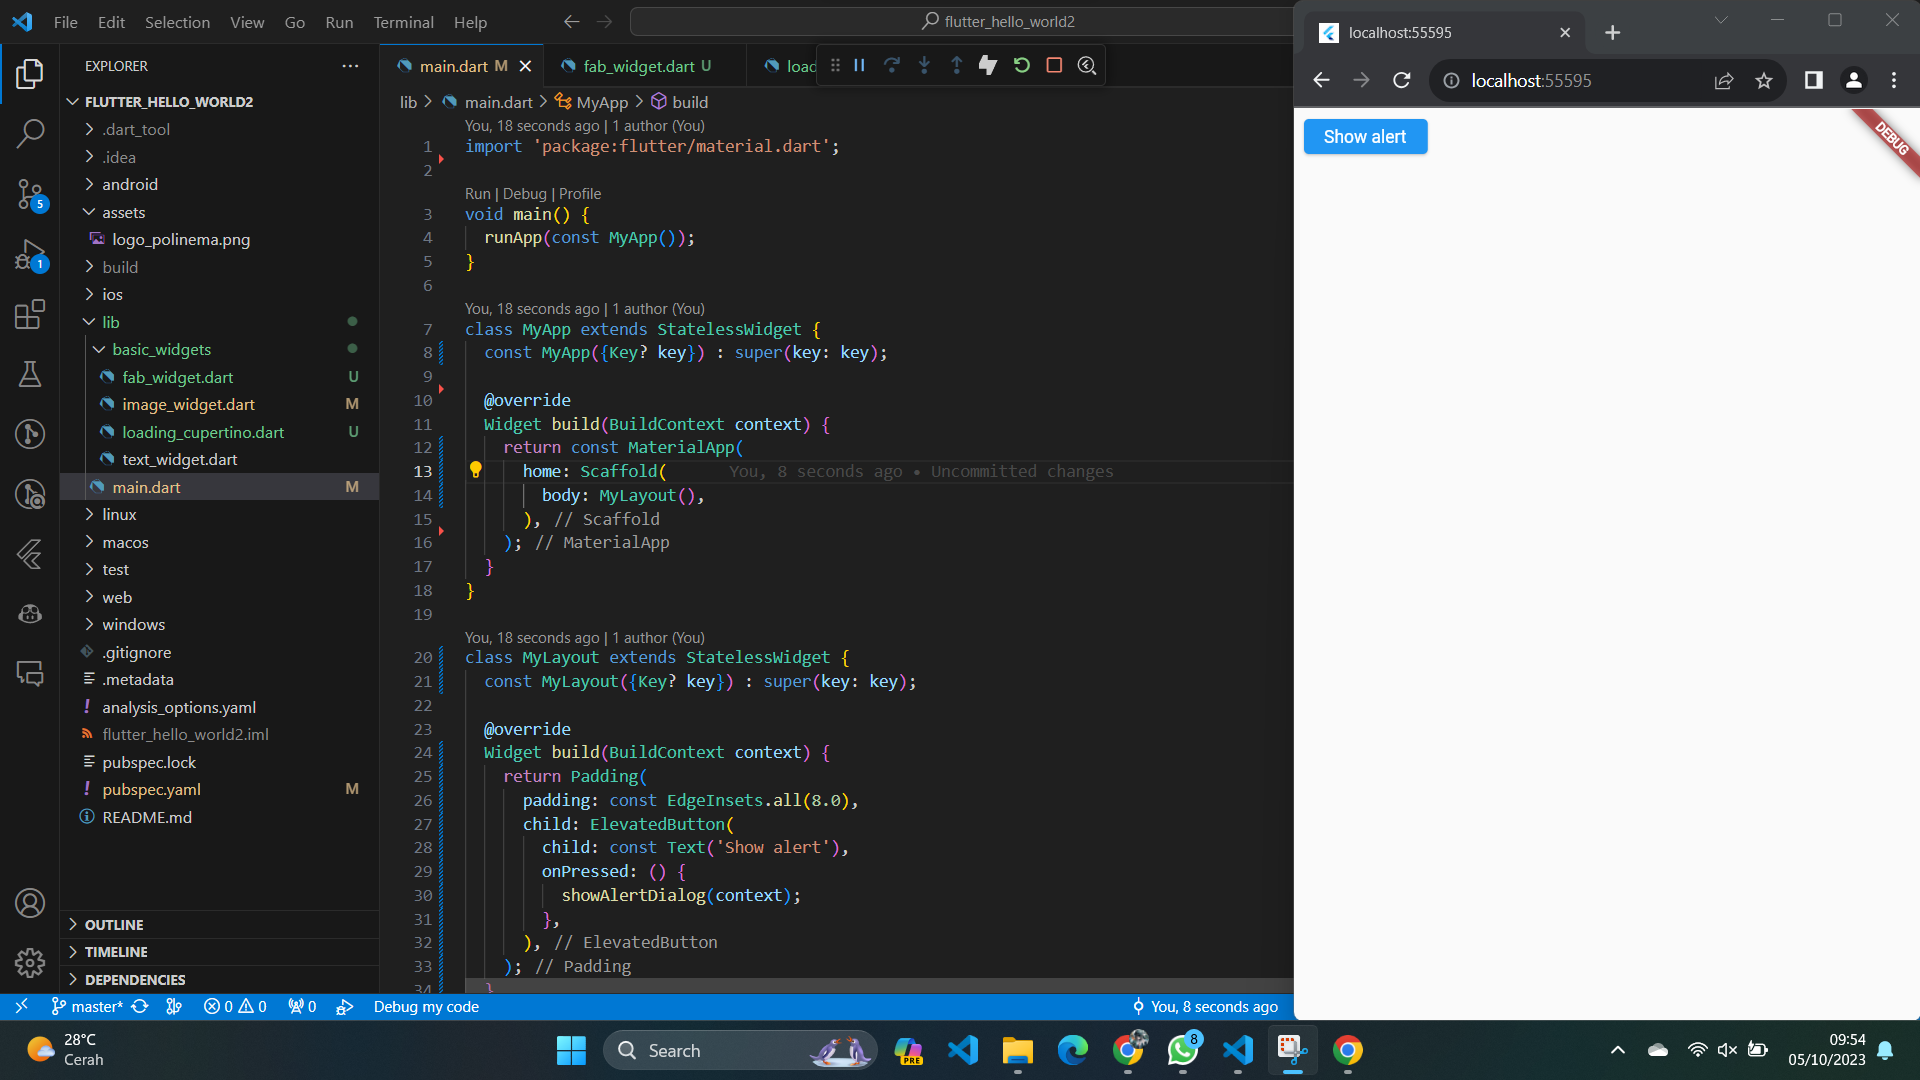
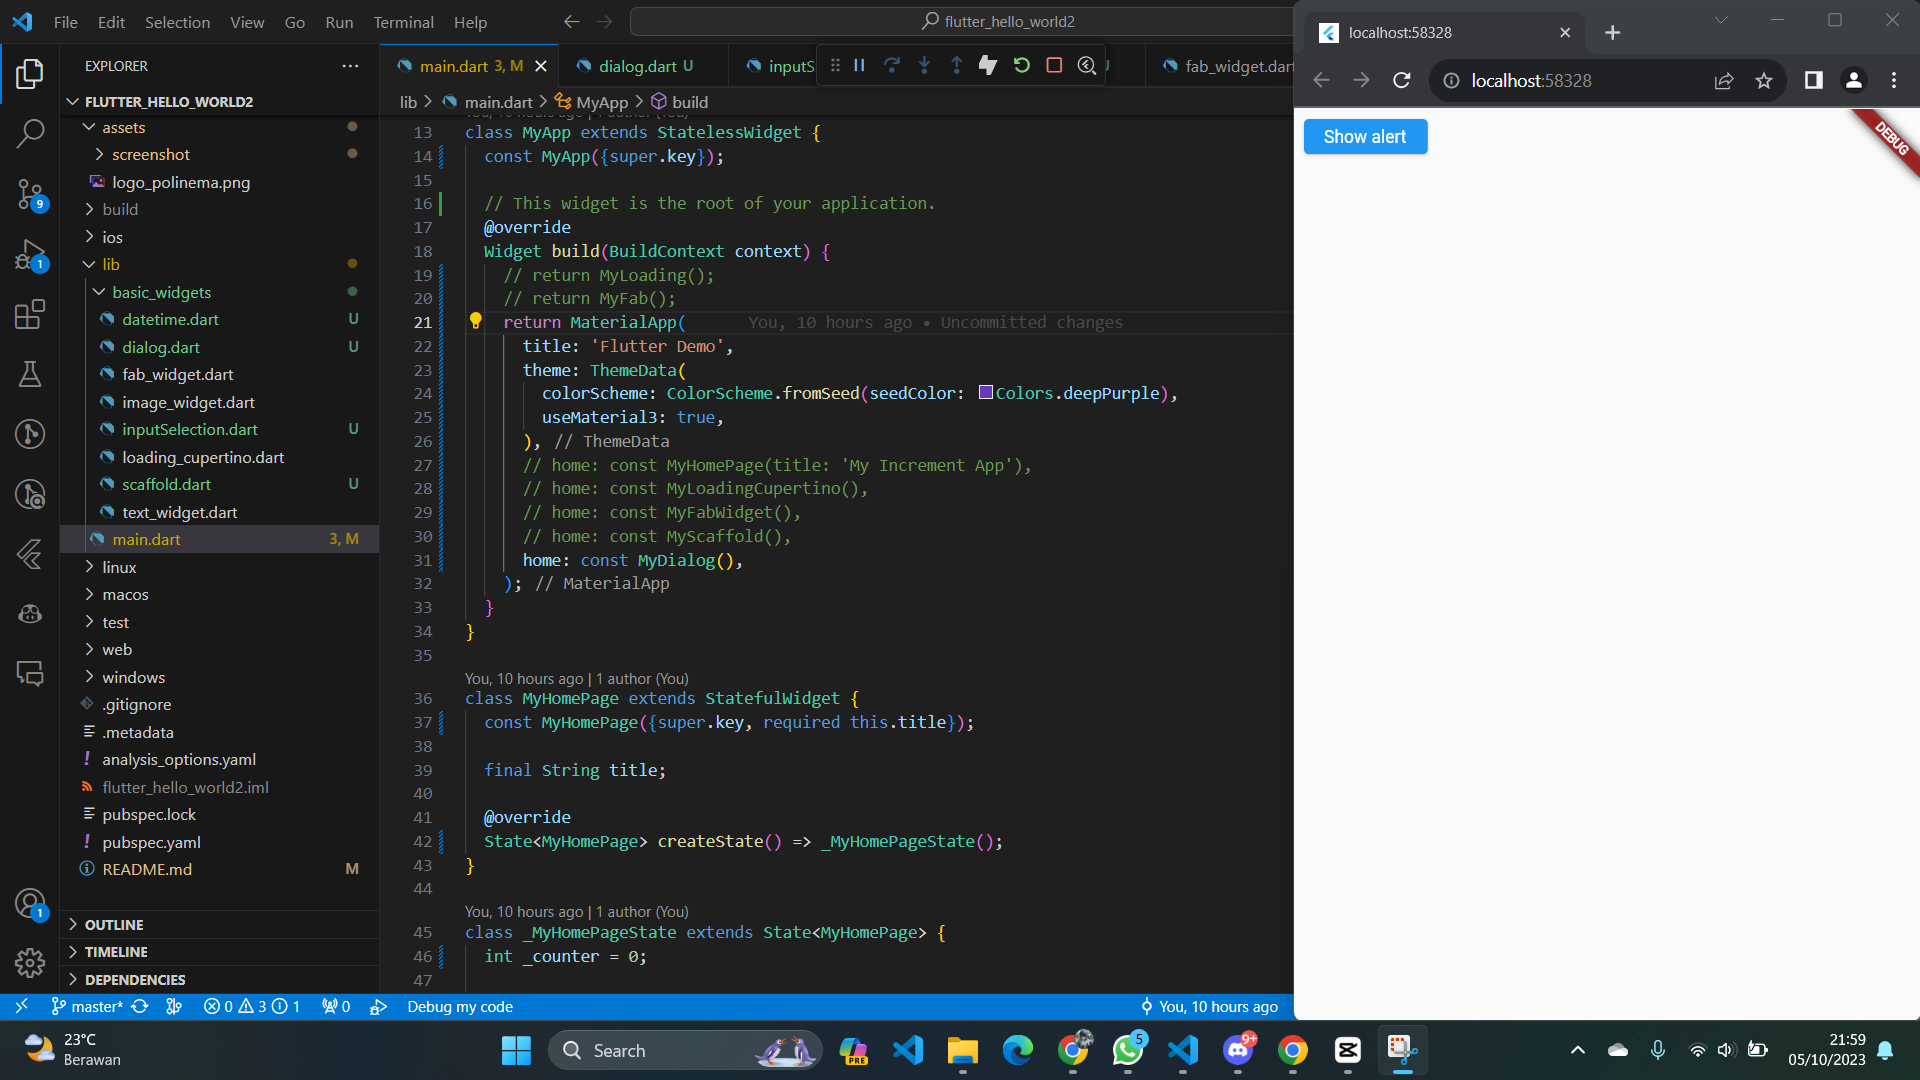
Minggu 5

diff --git a/lib/main.dart b/lib/main.dart
@@ -1,72 +1,84 @@
-import 'dart:async';
 import 'package:flutter/material.dart';
+import 'package:flutter_hello_world2/basic_widgets/datetime.dart';
+import 'package:flutter_hello_world2/basic_widgets/dialog.dart';
+import 'package:flutter_hello_world2/basic_widgets/fab_widget.dart';
+import 'package:flutter_hello_world2/basic_widgets/image_widget.dart';
+import 'package:flutter_hello_world2/basic_widgets/inputSelection.dart';
+import 'package:flutter_hello_world2/basic_widgets/loading_cupertino.dart';
+import 'package:flutter_hello_world2/basic_widgets/scaffold.dart';
+import 'package:flutter_hello_world2/basic_widgets/text_widget.dart';
 
-void main() => runApp(const MyApp());
+void main() {
+  runApp(const MyApp());
+}
 
 class MyApp extends StatelessWidget {
-  const MyApp({Key? key}) : super(key: key);
+  const MyApp({super.key});
 
+  // This widget is the root of your application.
   @override
   Widget build(BuildContext context) {
-    return const MaterialApp(
-      title: 'Contoh Date Picker',
-      home: MyHomePage(title: 'Contoh Date Picker'),
+    // return MyLoading();
+    // return MyFab();
+    return MaterialApp(
+      title: 'Flutter Demo',
+      theme: ThemeData(
+        colorScheme: ColorScheme.fromSeed(seedColor: Colors.deepPurple),
+        useMaterial3: true,
+      ),
+      // home: const MyHomePage(title: 'My Increment App'),
+      // home: const MyLoadingCupertino(),
+      // home: const MyFabWidget(),
+      // home: const MyScaffold(),
+      // home: const MyDialog(),
+      // home: const MyInputSelect(),
+      home: const MyDateTime(),
     );
   }
 }
 
 class MyHomePage extends StatefulWidget {
-  const MyHomePage({Key? key, required this.title}) : super(key: key);
+  const MyHomePage({super.key, required this.title});
 
   final String title;
 
   @override
-  _MyHomePageState createState() => _MyHomePageState();
+  State<MyHomePage> createState() => _MyHomePageState();
 }
 
 class _MyHomePageState extends State<MyHomePage> {
-  // Variable/State untuk mengambil tanggal
-  DateTime selectedDate = DateTime.now();
+  int _counter = 0;
 
-  //  Initial SelectDate FLutter
-  Future<void> _selectDate(BuildContext context) async {
-    // Initial DateTime FIinal Picked
-    final DateTime? picked = await showDatePicker(
-        context: context,
-        initialDate: selectedDate,
-        firstDate: DateTime(2015, 8),
-        lastDate: DateTime(2101));
-    if (picked != null && picked != selectedDate) {
-      setState(() {
-        selectedDate = picked;
-      });
-    }
+  void _incrementCounter() {
+    setState(() {
+      _counter++;
+    });
   }
 
   @override
   Widget build(BuildContext context) {
     return Scaffold(
       appBar: AppBar(
+        backgroundColor: Theme.of(context).colorScheme.inversePrimary,
         title: Text(widget.title),
       ),
       body: Center(
         child: Column(
-          mainAxisSize: MainAxisSize.min,
+          mainAxisAlignment: MainAxisAlignment.center,
           children: <Widget>[
-            Text("${selectedDate.toLocal()}".split(' ')[0]),
-            const SizedBox(
-              height: 20.0,
-            ),
-            ElevatedButton(
-              onPressed: () => {
-                _selectDate(context),
-                // ignore: avoid_print
-                print(selectedDate.day + selectedDate.month + selectedDate.year)
-              },
-              child: const Text('Pilih Tanggal'),
+            const MyTextWidget(),
+            const MyImageWidget(),
+            Text(
+              '$_counter',
+              style: Theme.of(context).textTheme.headlineMedium,
             ),
           ],
         ),
+      ),
+      floatingActionButton: FloatingActionButton(
+        onPressed: _incrementCounter,
+        tooltip: 'Increment',
+        child: const Icon(Icons.add),
       ),
     );
   }

diff --git a/lib/basic_widgets/datetime.dart b/lib/basic_widgets/datetime.dart
@@ -1,0 +1,73 @@
+import 'dart:async';
+import 'package:flutter/material.dart';
+
+void main() => runApp(const MyDateTime());
+
+class MyDateTime extends StatelessWidget {
+  const MyDateTime({Key? key}) : super(key: key);
+
+  @override
+  Widget build(BuildContext context) {
+    return const MaterialApp(
+      title: 'Contoh Date Picker',
+      home: MyHomePage(title: 'Contoh Date Picker'),
+    );
+  }
+}
+
+class MyHomePage extends StatefulWidget {
+  const MyHomePage({Key? key, required this.title}) : super(key: key);
+
+  final String title;
+
+  @override
+  _MyHomePageState createState() => _MyHomePageState();
+}
+
+class _MyHomePageState extends State<MyHomePage> {
+  // Variable/State untuk mengambil tanggal
+  DateTime selectedDate = DateTime.now();
+
+  //  Initial SelectDate FLutter
+  Future<void> _selectDate(BuildContext context) async {
+    // Initial DateTime FIinal Picked
+    final DateTime? picked = await showDatePicker(
+        context: context,
+        initialDate: selectedDate,
+        firstDate: DateTime(2015, 8),
+        lastDate: DateTime(2101));
+    if (picked != null && picked != selectedDate) {
+      setState(() {
+        selectedDate = picked;
+      });
+    }
+  }
+
+  @override
+  Widget build(BuildContext context) {
+    return Scaffold(
+      appBar: AppBar(
+        title: Text(widget.title),
+      ),
+      body: Center(
+        child: Column(
+          mainAxisSize: MainAxisSize.min,
+          children: <Widget>[
+            Text("${selectedDate.toLocal()}".split(' ')[0]),
+            const SizedBox(
+              height: 20.0,
+            ),
+            ElevatedButton(
+              onPressed: () => {
+                _selectDate(context),
+                // ignore: avoid_print
+                print(selectedDate.day + selectedDate.month + selectedDate.year)
+              },
+              child: const Text('Pilih Tanggal'),
+            ),
+          ],
+        ),
+      ),
+    );
+  }
+}

diff --git a/lib/basic_widgets/scaffold.dart b/lib/basic_widgets/scaffold.dart
@@ -1,0 +1,74 @@
+import 'package:flutter/material.dart';
+
+void main() {
+  runApp(const MyScaffold());
+}
+
+class MyScaffold extends StatelessWidget {
+  const MyScaffold({Key? key}) : super(key: key);
+
+  // This widget is the root of your application.
+  @override
+  Widget build(BuildContext context) {
+    return MaterialApp(
+      title: 'Flutter Demo',
+      theme: ThemeData(
+        primarySwatch: Colors.red,
+      ),
+      home: const MyHomePage(title: 'My Increment App'),
+    );
+  }
+}
+
+class MyHomePage extends StatefulWidget {
+  const MyHomePage({Key? key, required this.title}) : super(key: key);
+
+  final String title;
+
+  @override
+  State<MyHomePage> createState() => _MyHomePageState();
+}
+
+class _MyHomePageState extends State<MyHomePage> {
+  int _counter = 0;
+
+  void _incrementCounter() {
+    setState(() {
+      _counter++;
+    });
+  }
+
+  @override
+  Widget build(BuildContext context) {
+    return Scaffold(
+      appBar: AppBar(
+        title: Text(widget.title),
+      ),
+      body: Center(
+        child: Column(
+          mainAxisAlignment: MainAxisAlignment.center,
+          children: <Widget>[
+            const Text(
+              'You have pushed the button this many times:',
+            ),
+            Text(
+              '$_counter',
+              style: Theme.of(context).textTheme.headlineMedium,
+            ),
+          ],
+        ),
+      ),
+      bottomNavigationBar: BottomAppBar(
+        child: Container(
+          height: 50.0,
+        ),
+      ),
+      floatingActionButton: FloatingActionButton(
+        onPressed: _incrementCounter,
+        tooltip: 'Increment Counter',
+        child: const Icon(Icons.add),
+      ), 
+      floatingActionButtonLocation: FloatingActionButtonLocation.centerDocked,
+    );
+  }
+}

diff --git a/lib/basic_widgets/dialog.dart b/lib/basic_widgets/dialog.dart
@@ -1,0 +1,58 @@
+import 'package:flutter/material.dart';
+
+class MyDialog extends StatelessWidget {
+  const MyDialog({Key? key}) : super(key: key);
+
+  @override
+  Widget build(BuildContext context) {
+    return const MaterialApp(
+      home: Scaffold(
+        body: MyLayout(),
+      ),
+    );
+  }
+}
+
+class MyLayout extends StatelessWidget {
+  const MyLayout({Key? key}) : super(key: key);
+
+  @override
+  Widget build(BuildContext context) {
+    return Padding(
+      padding: const EdgeInsets.all(8.0),
+      child: ElevatedButton(
+        child: const Text('Show alert'),
+        onPressed: () {
+          showAlertDialog(context);
+        },
+      ),
+    );
+  }
+}
+
+showAlertDialog(BuildContext context) {
+  // set up the button
+  Widget okButton = TextButton(
+    child: const Text("OK"),
+    onPressed: () {
+      Navigator.pop(context);
+    },
+  );
+
+  // set up the AlertDialog
+  AlertDialog alert = AlertDialog(
+    title: const Text("My title"),
+    content: const Text("This is my message."),
+    actions: [
+      okButton,
+    ],
+  );
+
+  // show the dialog
+  showDialog(
+    context: context,
+    builder: (BuildContext context) {
+      return alert;
+    },
+  );
+}

diff --git a/lib/basic_widgets/inputSelection.dart b/lib/basic_widgets/inputSelection.dart
@@ -1,0 +1,21 @@
+import 'package:flutter/material.dart';
+
+class MyInputSelect extends StatelessWidget {
+  const MyInputSelect({Key? key}) : super(key: key);
+
+  @override
+  Widget build(BuildContext context) {
+    return MaterialApp(
+      home: Scaffold(
+        appBar: AppBar(title: const Text("Contoh TextField")),
+        body: const TextField(
+          obscureText: false,
+          decoration: InputDecoration(
+            border: OutlineInputBorder(),
+            labelText: 'Nama',
+          ),
+        ),
+      ),
+    );
+  }
+}

diff --git a/README.md b/README.md
@@ -1,8 +1,8 @@
-# flutter_hello_world2
+# Flutter Fundamental
 
 A new Flutter project.
 
-## Getting Started
+## flutter_hello_world2
 
 This project is a starting point for a Flutter application.
 
@@ -15,6 +15,8 @@ For help getting started with Flutter development, view the
 [online documentation](https://docs.flutter.dev/), which offers tutorials,
 samples, guidance on mobile development, and a full API reference.
 
-# Praktikum 1 : Membuat Project Flutter Baru
+> [Praktikum 3] 
+> Menerapkan Widget Dasar
 ### Langkah 1
-- Pada VS Code tekan tombol **CTRL + Shift + P**, lalu pilih **Flutter: New Application Project**
+- Buat folder baru **basic_widgets** di dalam folder lib. Kemudian buat file baru di dalam basic_widgets dengan nama **text_widget.dart**
+<img src="/assets/screenshot/0.png" width="300px">
